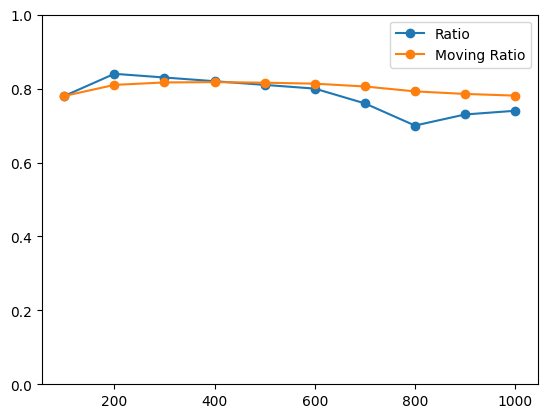
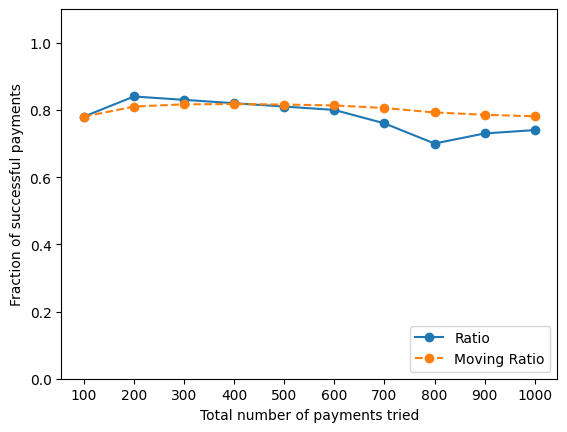
add plot for sufficient funds

Changed region(s): [[0.0, 0.0, 0.9945, 0.9952]]

diff --git a/assgn3/HW3/client.py b/assgn3/HW3/client.py
@@ -121,7 +121,7 @@ if __name__=="__main__":
     assert w3.is_connected() == True
 
     # contract address
-    deployed_contract_address = '0xd42383151bE5FF14210dEdE8f548Ef0B6b584F86'
+    deployed_contract_address = '0x7b3b490B2D42521Abb60EeE2dd870DA82c0bd706'
 
     # path to contract json file
     compiled_contract_path ="build/contracts/Payment.json"
@@ -187,12 +187,20 @@ if __name__=="__main__":
     print(f"{ratios=}")
     print(f"{ratios_moving=}")
 
+    # for shortest path (`>= 0`):
     # ratios={100: 0.78, 200: 0.84, 300: 0.83, 400: 0.82, 500: 0.81, 600: 0.8, 700: 0.76, 800: 0.7, 900: 0.73, 1000: 0.74}
     # ratios_moving={100: 0.78, 200: 0.81, 300: 0.8166666666666667, 400: 0.8175, 500: 0.816, 600: 0.8133333333333334, 700: 0.8057142857142857, 800: 0.7925, 900: 0.7855555555555556, 1000: 0.781}
+
+    # for optimal path with sufficient funds (`>= amount`)
+    # ratios={100: 1.0, 200: 1.0, 300: 1.0, 400: 1.0, 500: 1.0, 600: 0.99, 700: 1.0, 800: 1.0, 900: 0.99, 1000: 1.0}
+    # ratios_moving={100: 1.0, 200: 1.0, 300: 1.0, 400: 1.0, 500: 1.0, 600: 0.9983333333333333, 700: 0.9985714285714286, 800: 0.99875, 900: 0.9977777777777778, 1000: 0.998}
     
     (fig, ax) = plt.subplots()
     ax.plot(ratios.keys(), ratios.values(), marker='o', label='Ratio')
-    ax.plot(ratios_moving.keys(), ratios_moving.values(), marker='o', label='Moving Ratio')
-    ax.set_ylim(0,1)
-    ax.legend()
-    fig.savefig("plot_ratios.png", bbox_inches="tight")
+    ax.plot(ratios_moving.keys(), ratios_moving.values(), linestyle='--', marker='o', label='Moving Ratio')
+    ax.set_ylim(0,1.1)
+    ax.set_xticks(list(ratios.keys()))
+    ax.set_xlabel('Total number of payments tried')
+    ax.set_ylabel('Fraction of successful payments')
+    ax.legend(loc='lower right')
+    fig.savefig("ratios_shortest-path.png", bbox_inches="tight")
